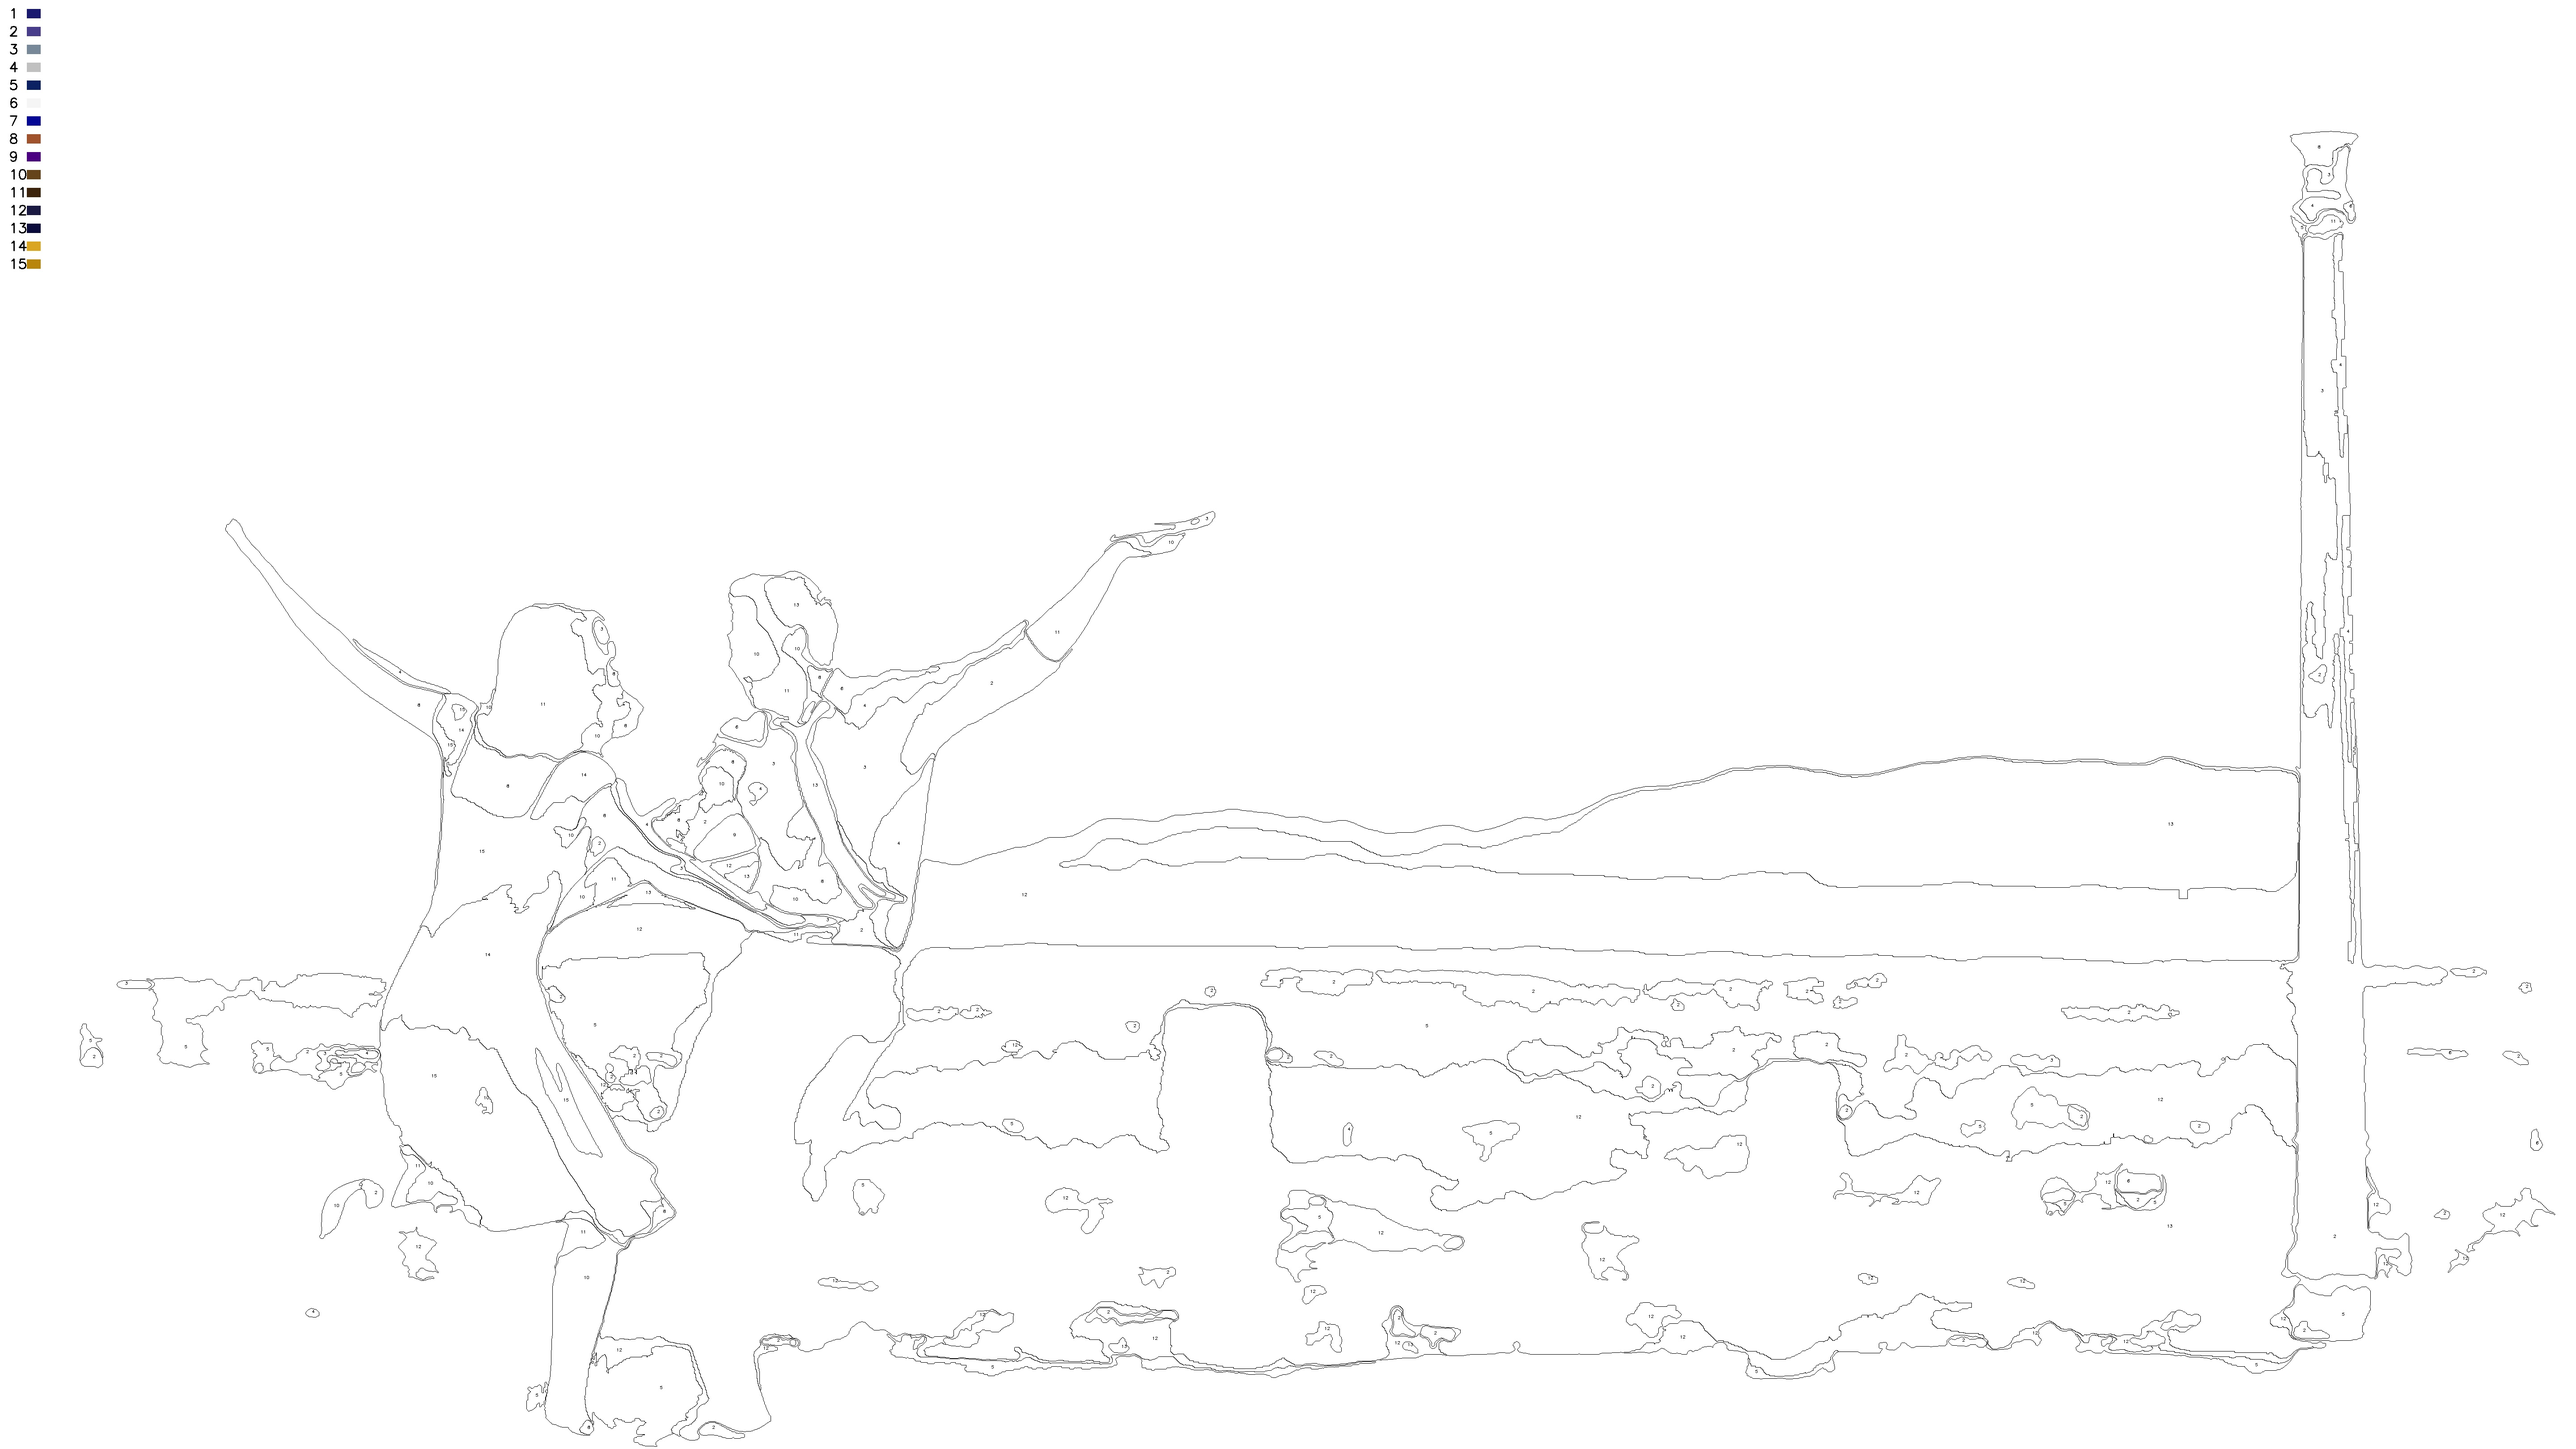
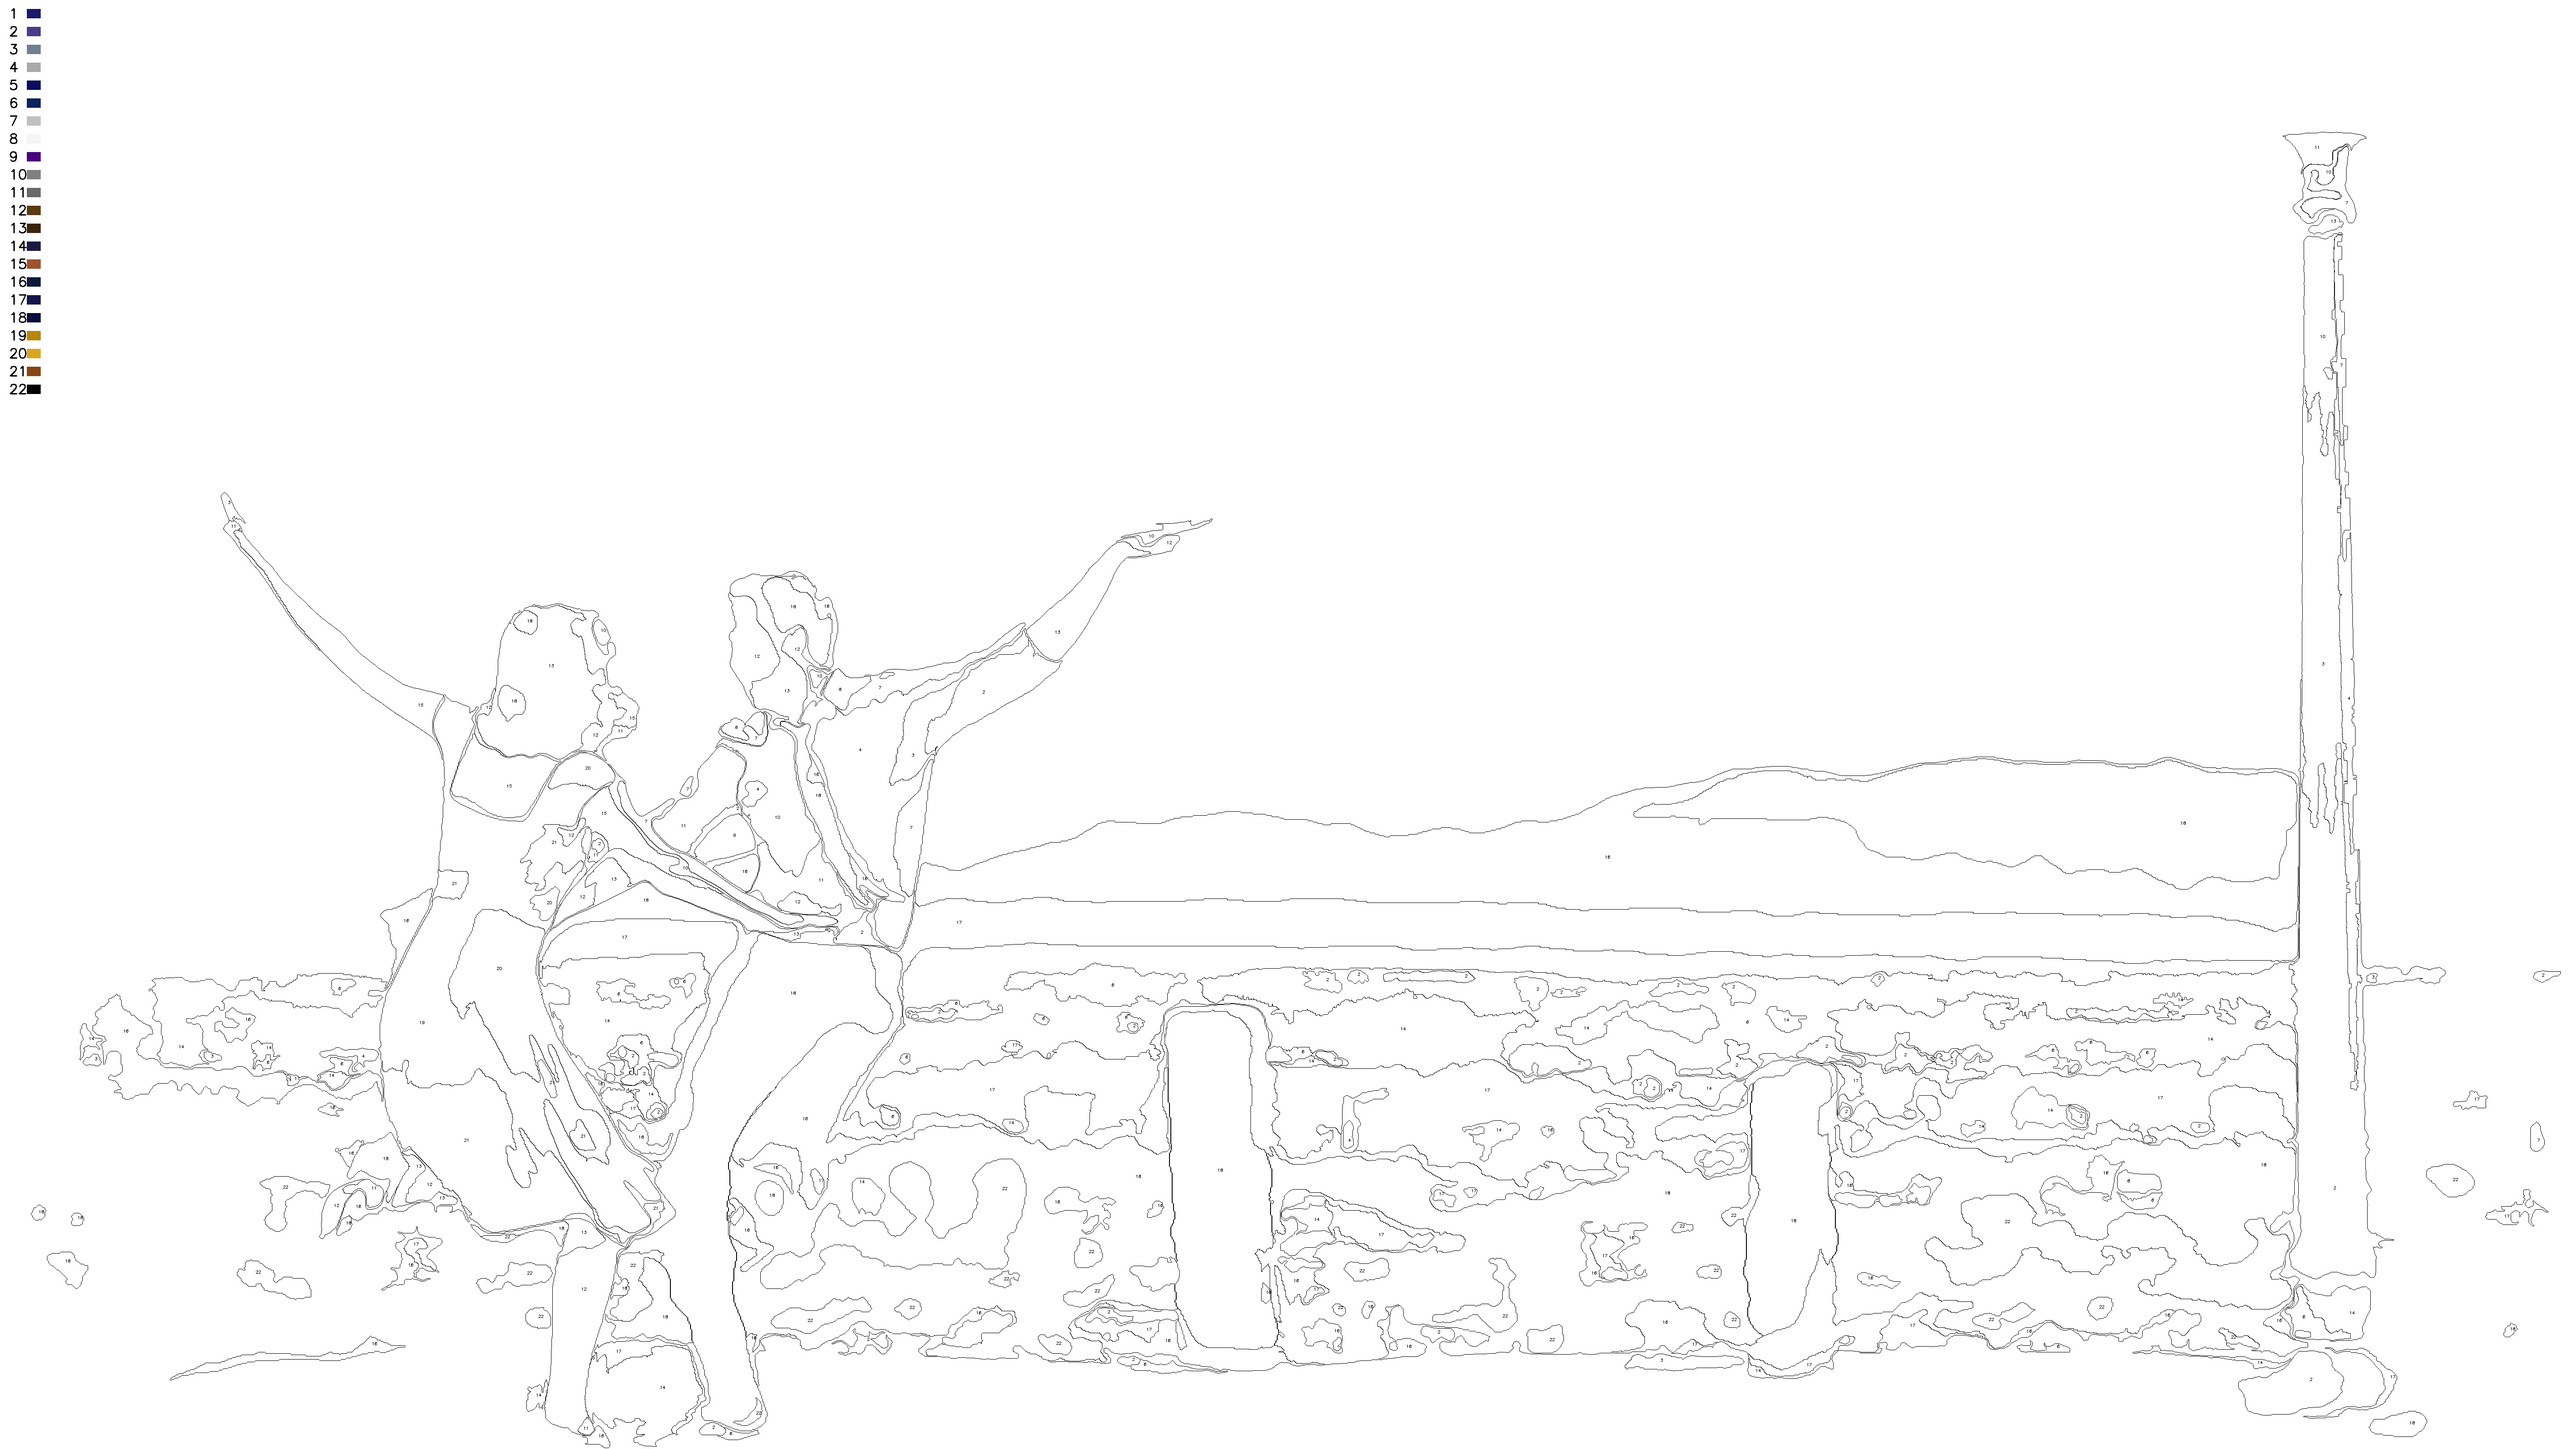
num jit

Changed region(s): [[0.0, 0.1559, 0.0312, 0.2806], [0.3125, 0.5923, 0.3438, 0.6546], [0.125, 0.717, 0.1562, 0.7481]]

diff --git a/web/static/js/diy_func.js b/web/static/js/diy_func.js
@@ -1,5 +1,5 @@
 $(window).on('load', function(){
-    var image_path = '../static/org_image/lala.jpg';
+    var image_path = '../static/org_image/111.jpg';
     // var image_path = '../static/org_image/iron.png';
     var pic_size = 600;
 

diff --git a/libs/painting.py b/libs/painting.py
@@ -11,6 +11,7 @@ import cv2
 import os
 import numpy as np
 from libs.colorCode import HexColorCode
+import numba
 # from colorCode import HexColorCode
 
 class Painting:
@@ -61,6 +62,7 @@ class Painting:
         return blurring
    
     # color clustering
+    @numba.jit(forceobj = True)
     def colorClustering(self, image, cluster = 16, round = 1): 
         self.colorClusteredMap, sse = self.__kmeansColorCluster(image, 
                                                                 clusters = cluster, 
@@ -95,6 +97,7 @@ class Painting:
                 
         return len(colorDict.keys())
     
+    @numba.jit(forceobj = True)
     def __kmeansColorCluster(self, image, clusters, rounds):
         """
         Parameters
@@ -158,6 +161,7 @@ class Painting:
         
         return res.reshape((image.shape)), round( compactness ** 0.5 // 10, 2 )
     
+    @numba.jit(forceobj = True)
     def __createPaintingMap(self, colorImage):
         """
         Parameters

diff --git a/libs/imageProcessing.py b/libs/imageProcessing.py
@@ -16,6 +16,7 @@ from multiprocessing_generator import ParallelGenerator
 
 
 # 색 리스트 반환 함수 (Minku koo)
+@numba.jit(forceobj = True)
 def createColorDict(image):
     colorDict = {}
     for y, row in enumerate(image):
@@ -58,6 +59,7 @@ def setLabel(image, num, pt):
 
 
 # 컨투어 내부의 색을 평균내서 어느 색인지 체크
+@numba.jit(forceobj = True)
 def label(image, contour, lab, colorNames):
     mask = np.zeros(image.shape[:2], dtype="uint8")
 
@@ -168,6 +170,7 @@ def getContoursFromImage(img):
     return contours, hierarchy, image_bin
 
 
+@numba.jit(forceobj = True)
 def makeWhiteFromImage(img):
     return np.zeros(img.copy().shape) + 255
 

diff --git a/web/views.py b/web/views.py
@@ -84,7 +84,7 @@ def convert():
     print(f'컬러 군집화 시작')
     
     # K-means 알고리즘을 활용한 컬러 군집화
-    clusteredImage = paintingTool.colorClustering( expandedImage, cluster = 36, round = 1 )
+    clusteredImage = paintingTool.colorClustering( expandedImage, cluster = 48, round = 1 )
     cv2.imwrite(f'./web/static/render_image/working_img.png', clusteredImage)
     cv2.imwrite(f'./web/static/render_image/working_img0004.png', clusteredImage)
 
